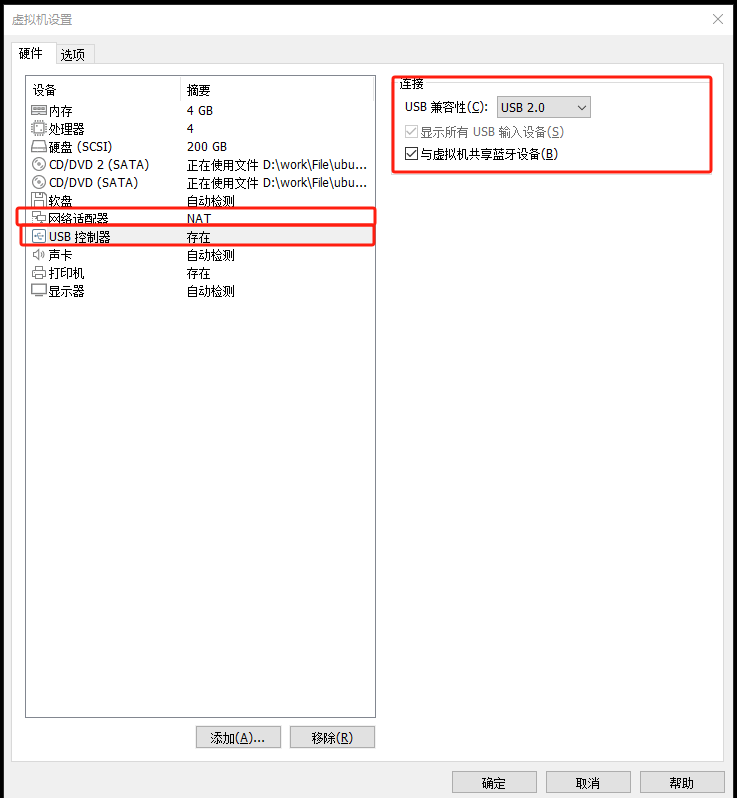
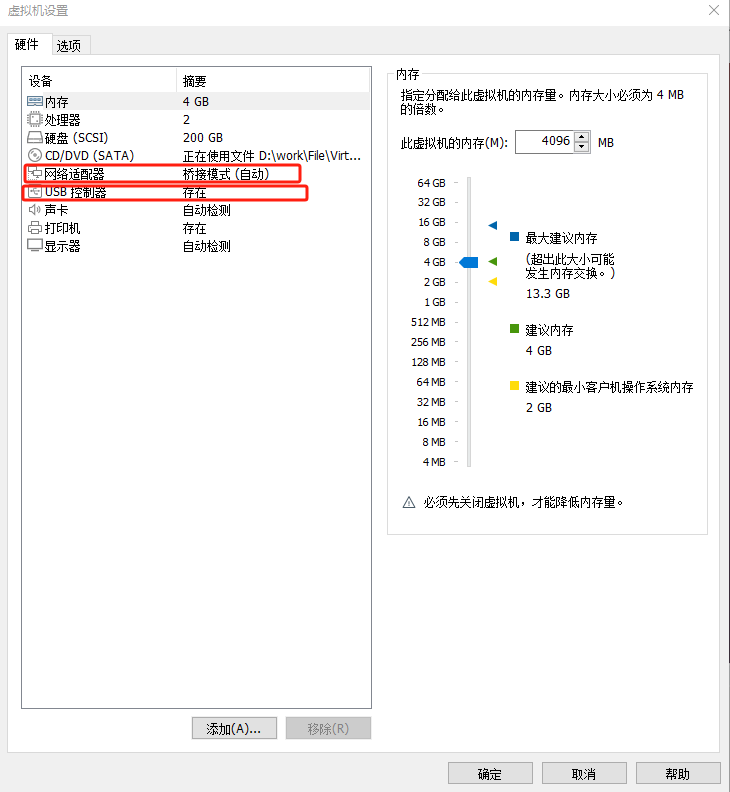
feat: first commit i.mx6ull开发指南.md

diff --git a/source/_posts/I.MX6ULL开发指南.md b/source/_posts/I.MX6ULL开发指南.md
@@ -42,17 +42,31 @@ description: I.MX6ULL开发环境搭建，uboot移植，基于Linux版本为Ubun
 
 ### 虚拟机安装配置遇到的问题
 
-- 无法使用桥接上网
-	- 虚拟网络编辑器-还原默认设置（该过程会卸载虚拟网卡，重新安装适配器）
+[桥接模式资料(仅供参考)](https://segmentfault.com/a/1190000039918994)
 
-[参考资料1](https://segmentfault.com/a/1190000039918994)
-[参考资料2](https://blog.csdn.net/baidu_41666198/article/details/97619962?ops_request_misc=%257B%2522request%255Fid%2522%253A%2522172120535416800227445869%2522%252C%2522scm%2522%253A%252220140713.130102334..%2522%257D&request_id=172120535416800227445869&biz_id=0&utm_medium=distribute.pc_search_result.none-task-blog-2~blog~sobaiduend~default-1-97619962-null-null.nonecase&utm_term=NAT%E6%A8%A1%E5%BC%8F%E4%B8%8A%E4%B8%8D%E4%BA%86%E7%BD%91&spm=1018.2226.3001.4450)
+- 尝试解决无法使用桥接使用与PC机相同IP上网
+	- 虚拟网络编辑器-还原默认设置（该过程会卸载虚拟网卡，重新安装适配器）
+	- 桥接模式启动
+	- 笔试还不能关闭网络服务，`ubuntu`内部配置`IPv4`（先打开`PC主机`以太网，按下图所示手动填写`地址`和`DNS`）,重新启动网络服务。
+
+![虚拟网络](../pictures/虚拟网络编辑器.png)
+![PC以太网配置](../pictures/PC机IPv4配置.png)
+![ubuntu网络配置](../pictures/ubuntu网络配置.png)
 
 - 虚拟机右下角的USB是灰的，不能链接/断开。
 
 [参考资料](https://blog.csdn.net/weixin_44259058/article/details/127639566)
+<br>
 
-### Uboot移植
+## Uboot移植
+
+[参考资料](https://www.eet-china.com/mp/a68264.html)
+
+### I.MX6ULL启动模式
+
+![IMX6ULL启动拨码图](../pictures/IMX6ULL启动拨码图.png)
+
+### Uboot编译烧录
 
 - 将`uboot`压缩文件`uboot-imx-rel_imx_4.1.15_2.1.1_ga_alientek_v2.4.tar.bz2`放到`/home/xuan/linux/`目录下。
 
@@ -68,6 +82,8 @@ make ARCH=arm CROSS_COMPILE=arm-linux-gnueabihf- mx6ull_alientek_emmc_defconfig
 make ARCH=arm CROSS_COMPILE=arm-linux-gnueabihf- V=1 -j12
 ```
 - 执行脚本：`./mx6ull_14x14_evk_emmc.sh`
+
+#### Uboot烧录到SD卡
 
 - 插上`SD卡`，启动`uboot`, `SD`卡和`EMMC`驱动检查:
 ``` shell
@@ -85,6 +101,8 @@ chmod 777 imxdownload 				//给予 imxdownload 可执行权限
 ./imxdownload u-boot.bin /dev/sdd 	//烧写到 SD 卡中，不能烧写到/dev/sda 或 sda1 里面
 ```
 
+<br>
+
 - `U-Boot` 图形化配置
 
 ``` shell
@@ -95,12 +113,155 @@ make mx6ull_alientek_emmc_defconfig
 make menuconfig
 ```
 
+- 配置网口的环境变量，开发板上的`ENET2`,上电进入`uboot`,打开的`USB_TTL`对应的串口控制台。
+``` shell
+setenv ipaddr 192.168.104.130		//开发板 ip 地址
+setenv ethaddr b8:ae:1d:01:00:00	//开发板的MAC地址，一定要设置, 如有多块开发板，MAC需不一致
+setenv gatewayip 192.168.104.129	//网关地址
+setenv netmask 255.255.240.0		//子网掩码
+setenv serverip 192.168.104.29		//服务器 IP 地址，也就是 Ubuntu 主机 IP 地址，用于调试代码。
+saveenv
+```
 
-### Linux内核移植
+<br>
+
+## Linux内核移植
+
+### 移植步骤
+
+**1. Ubuntu下搭建网络传输环境**
+
+**1.1 搭建网络tftp服务**
+
+- 执行以下指令，安装`xinetd`: 
+``` shell
+sudo apt-get install xinetd
+```
+
+- 查询`/etc/`下是否存在 `xinetd.conf` 文件，没有的话则自己新建一个。
+``` shell
+ls /etc/xinetd.conf
+sudo vi /etc/xinetd.conf
+```
+
+- 创建出来的文件是空白的， 修改 `xinetd.conf` 文件内容如下：
+``` shell
+# Simple configuration file for xinetd
+#
+# Some defaults, and include /etc/xinetd.d/
+defaults
+{
+# Please note that you need a log_type line to be able to use log_on_success
+# and log_on_failure. The default is the following :
+# log_type = SYSLOG daemon info
+}
+includedir /etc/xinetd.d
+```
+
+- 新建 `TFTP` 目录，这里建立在/home/xuan/linux 目录下，目录名为 tftp。将 tftp 目录赋予可读可写可执行权限。
+
+``` shell
+mkdir -p /home/xuan/linux/tftp
+sudo chmod 777 /home/xuan/linux/tftp/
+cd /home/xuan/linux/
+ls
+```
+
+- 执行以下程序安装 `tftp-hpa` 和 `tftpd-hpa` 服务程序
+``` shell
+sudo apt-get install tftp-hpa tftpd-hpa
+sudo vi /etc/default/tftpd-hpa
+```
+
+- 执行以下指令创建`/etc/xinetd.d/tftp`配置文件。（如果没有 `xinetd.d` 这个目录，可以先自己手动创建）,注意 `server_args = -s` 后面要添加自己的 `tftp` 工作路径。
+``` shell
+server tftp
+{
+socket_type = dgram
+wait = yes
+disable = no
+user = root
+protocol = udp
+server = /usr/sbin/in.tftpd
+server_args = -s /home/xuan/linux/tftp -c
+#log_on_success += PID HOST DURATION
+#log_on_failure += HOST
+per_source = 11
+cps =100 2
+flags =IPv4
+}
+```
+
+- 修改/添加 `tftp` 文件后， 执行以下指令重启 `tftpd-hpa`, 重启 `xinetd` 服务。
+``` shell
+sudo service tftpd-hpa restart
+sudo service xinetd restart
+```
+
+- 确保网络环境正常，`Ubuntu`、`Windows`和`开发板`能相互 `ping` 通。
+	- 开发板 IP： 192.168.104.130
+	- 虚拟机 IP： 192.168.104.129
+	- 电脑网口的 IP： 192.168.104.29
+
+<br>
+
+**1.2 搭建网络nfs服务**
+
+- 在 `Ubuntu` 终端执行以下指令安装 `NFS`
+``` shell
+sudo apt-get install nfs-kernel-server
+```
+
+- 新建 `NFS` 共享目录，并给予 `NFS` 目录可读可写可执行权限。
+``` shell
+sudo mkdir /home/xuan/linux/nfs
+sudo chmod 777 /home/xuan/linux/nfs/
+```
+
+- 执行以下指令打开 `etc/exports` 文件
+``` shell
+sudo vi /etc/exports
+```
+
+- 进入 `etc/exports` 文件，在最后添加如下内容
+``` shell
+/home/alientek/linux/nfs *(rw,sync,no_root_squash)
+```
+
+`/home/alientek/linux/nfs` 表示 `NFS` 共享的目录
+`*`表示允许所有的网络段访问
+`rw` 表示访问者具有可读写权限
+`sync` 表示将缓存写入设备中，可以说是同步缓存的意思
+`no_root_squash` 表示访问者具有 `root` 权限。
+
+- 执行以下指令重启 `NFS` 服务器, 查看 `NFS` 共享目录。
+``` shell
+sudo /etc/init.d/nfs-kernel-server restart
+showmount -e
+```
+
+- 测试 `NFS` 服务，执行以下指令设置开发板 `IP`，创建一个 `get` 目录，将虚拟机（`192.168.104.129`） `NFS` 共享目
+录挂载到到开发板的 `get` 目录中。
+``` shell
+mkdir get
+mount -t nfs -o nolock,nfsvers=3 192.168.104.129:/home/xuan/linux/nfs get/
+```
+
+- 查看挂载的 `NFS` 目录：`df`, 显示如下：
+``` shell
+192.168.104.129:/home/xuan/linux/nfs 204795392 14416896 179902464   8% /home/root/get
+```
+- 卸载 `NFS` 目录：`umount get`
+
+<br>
+
+**2. 拷贝内核文件**
 
 - 将内核压缩文件`linux-imx-rel_imx_4.1.15_2.1.1_ga_alientek_v2.4.tar.bz2`放到`/home/xuan/linux/linux-imx-rel_imx_4.1.15_2.1.1_ga_alientek_v2.4`目录下。
 
 - 将内核文件`tar -xjvf linux-imx-rel_imx_4.1.15_2.1.1_ga_alientek_v2.4.tar.bz2` 解压到该目录下。
+
+**3. 编译内核文件**
 
 按以下步骤进行编译：
 ``` shell
@@ -135,3 +296,64 @@ make: *** 正在等待未完成的任务....
 ```
 sudo apt-get install libncurses*
 ```
+
+<br>
+
+**4. 整理编译后的镜像文件**
+
+`Linux` 内核编译完成以后会在 `arch/arm/boot` 目录下生成 `zImage` 镜像文件，如果使用设备树
+的话还会在 `arch/arm/boot/dts` 目录下开发板对应的.dtb(设备树)文件，比如 `imx6ull-alientek-emmc.dtb`
+就是 `NXP` 官方的 `I.MX6ULL EVK开发板`对应的设备树文件。至此我们得到两个文件：
+- `Linux` 内核镜像文件： `zImage。`
+- `NXP`官方`I.MX6ULL EVK开发板`对应的设备树文件： imx6ull-alientek-emmc.dtb。
+
+<br>
+
+**5. 内核启动测试**
+
+- 修改`uboot` 中的环境变量 `bootargs`
+``` shell
+console=ttymxc0,115200 root=/dev/mmcblk1p2 rootwait rw
+```
+
+- 将上一小节编译出来的 `zImage` 和 `imx6ull-alientek-emmc.dtb` 复制到 `Ubuntu` 中的 `tftp` 目录下，
+因为我们要在 `uboot` 中使用 `tftp` 命令将其下载到开发板中，拷贝命令如下：
+``` shell
+cp arch/arm/boot/zImage /home/xuan/linux/tftpboot/ -f
+cp arch/arm/boot/dts/imx6ull-alientek-emmc.dtb /home/xuan/linux/tftpboot/ -f
+```
+
+- 拷贝完成以后就可以测试了，启动开发板，进入 `uboot` 命令行模式，然后输入如下命令将
+`zImage` 和 `imx6ull-alientek-emmc.dtb` 下载到开发板中：
+
+**从网络启动：**
+``` shell
+tftp 80800000 zImage
+tftp 83000000 imx6ull-alientek-emmc.dtb
+bootz 80800000 - 83000000
+```
+
+**从EMMC启动：**
+``` shell
+fatload mmc 1:1 80800000 zImage
+fatload mmc 1:1 83000000 imx6ull-alientek-emmc.dtb
+bootz 80800000 - 83000000
+```
+
+<br>
+
+### 从网络启动Linux系统
+
+- 这里使用`tftpboot`启动传输。
+- 拨码到从`SD`卡启动，开发板上电/`RESET`，进入`uboot`。
+- 在`uboot`配置`bootargs`和`bootcmd`参数并保存。
+
+``` shell
+setenv bootargs 'console=ttymxc0,115200 root=/dev/mmcblk1p2 rootwait rw'
+=> setenv bootcmd 'tftp 80800000 zImage; tftp 83000000 imx6ull-alientek-emmc.dtb; bootz 80800000 - 83000000'
+=> saveenv
+```
+
+- 输入`boot`启动
+
+<br>

diff --git a/source/_drafts/周报.md b/source/_drafts/周报.md
@@ -1,40 +1,39 @@
 电子一组
-7月22日 宋奇轩
+7月29日 宋奇轩
 当天工作完成40分
-20分：Scalp 3L，Scalp 3S发布软件版本OA提测。
-20分：N5 mini Pro调试新到PCB板。
+20分：Scalp 3S辅助测试工程师验证OTA功能。
+20分：Scalp 3L确认软件版本，主板签样。
+奖励分: 无
+合计:40分
+
+电子一组
+7月30日 宋奇轩
+当天工作完成40分
+20分：Scalp 3 Pro 调试新版光疗模组。
 20分：N6 调试双轴异步工作后换向同步。
 奖励分: 无
-合计:60分
-
-电子一组
-7月23日 宋奇轩
-当天工作完成30分
-30分：Scalp 3 Pro 调试新版光疗模组。
-奖励分: 无
-合计:30分
-
-电子一组
-7月24日 宋奇轩
-当天工作完成30分
-30分：调试敲背项目demo板给结构。
-奖励分: 无
-合计:30分
-
-电子一组
-7月25日 宋奇轩
-当天工作完成40分
-20分：Sclap 3 Pro 光疗板，激光板功能验证。
-20分：Scalp 3L资料填写会议。
-奖励分: 无
 合计:40分
 
 电子一组
-7月26日 宋奇轩
-当天工作完成40分
-40分：Scalp 3 Pro主副板通信逻辑编写。
+7月31日 宋奇轩
+当天工作完成0分
+0分：请假。
 奖励分: 无
-合计:40分
+合计:0分
+
+电子一组
+8月1日 宋奇轩
+当天工作完成0分
+0分：请假。
+奖励分: 无
+合计:0分
+
+电子一组
+8月2日 宋奇轩
+当天工作完成0分
+0分：请假。
+奖励分: 无
+合计:0分
 
 
 

diff --git a/source/_posts/Linux小贴士.md b/source/_posts/Linux小贴士.md
@@ -95,3 +95,7 @@ tree 命令使用颜色来区分不同类型的文件和目录。使用 --no-col
 ## git小贴士
 
 ![git指令](../pictures/git指令.jpg)
+
+<br>
+
+![vim指令](../pictures/vim指令.jpg)
